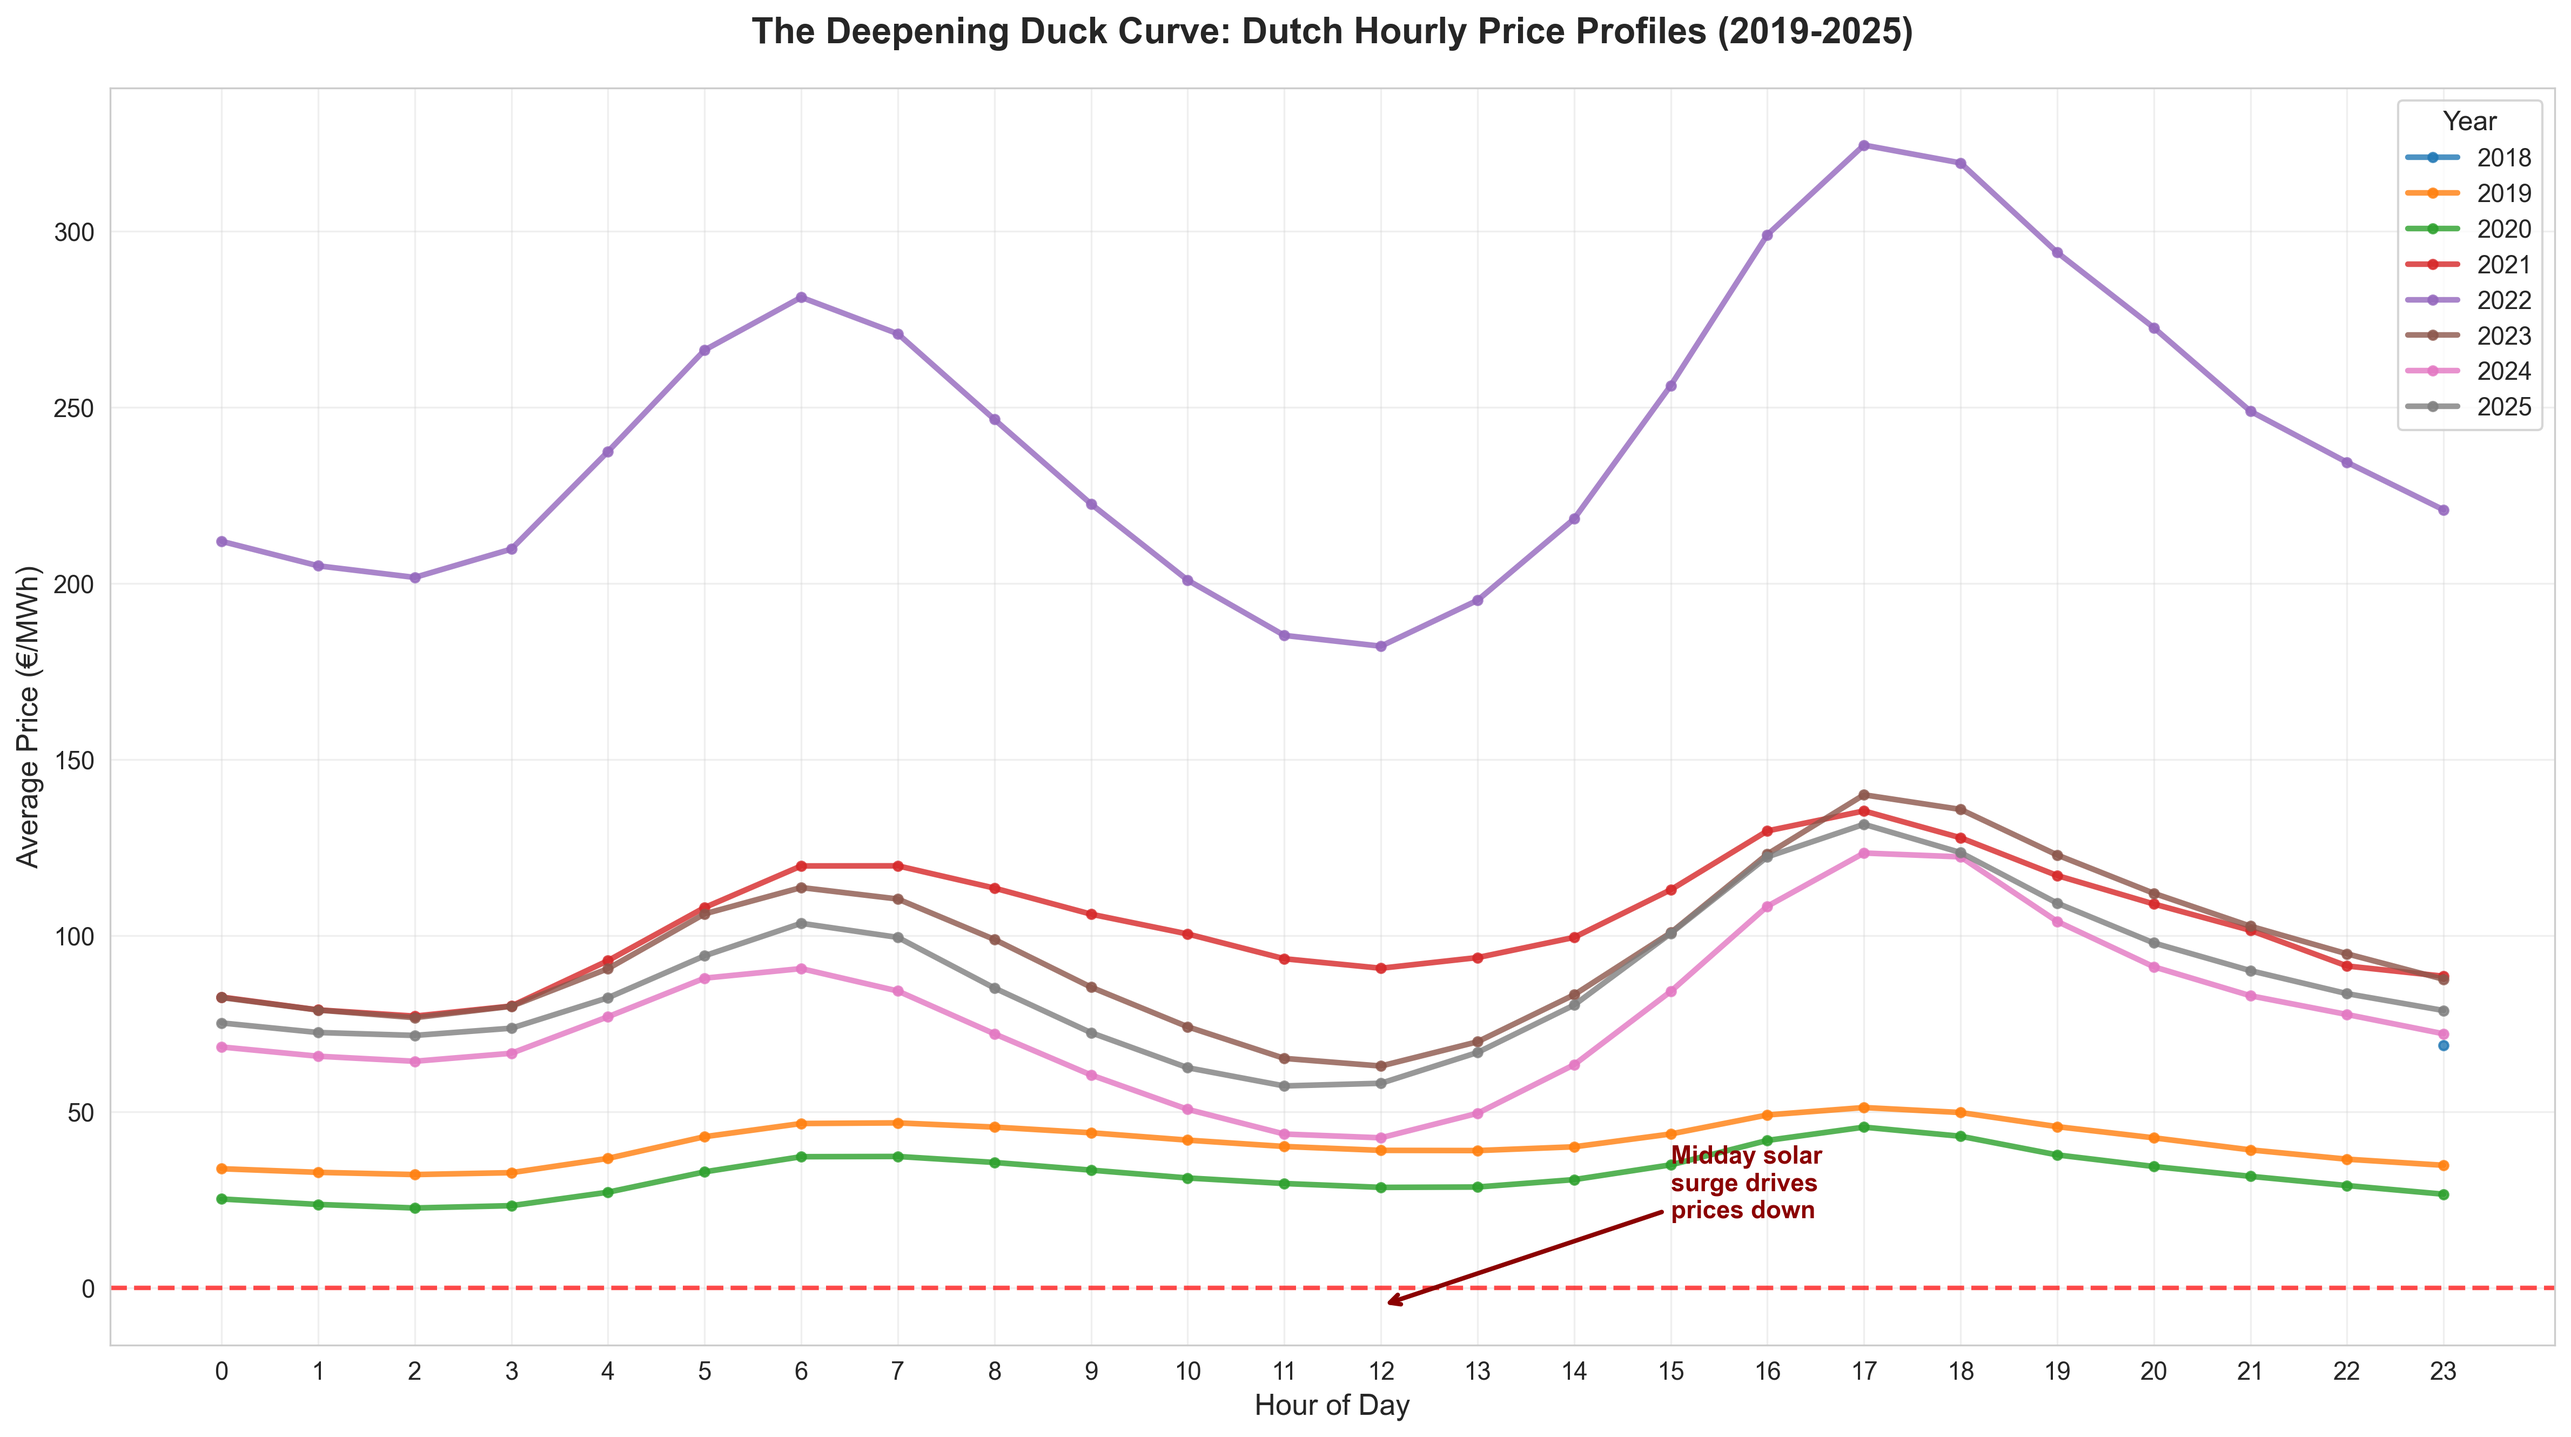
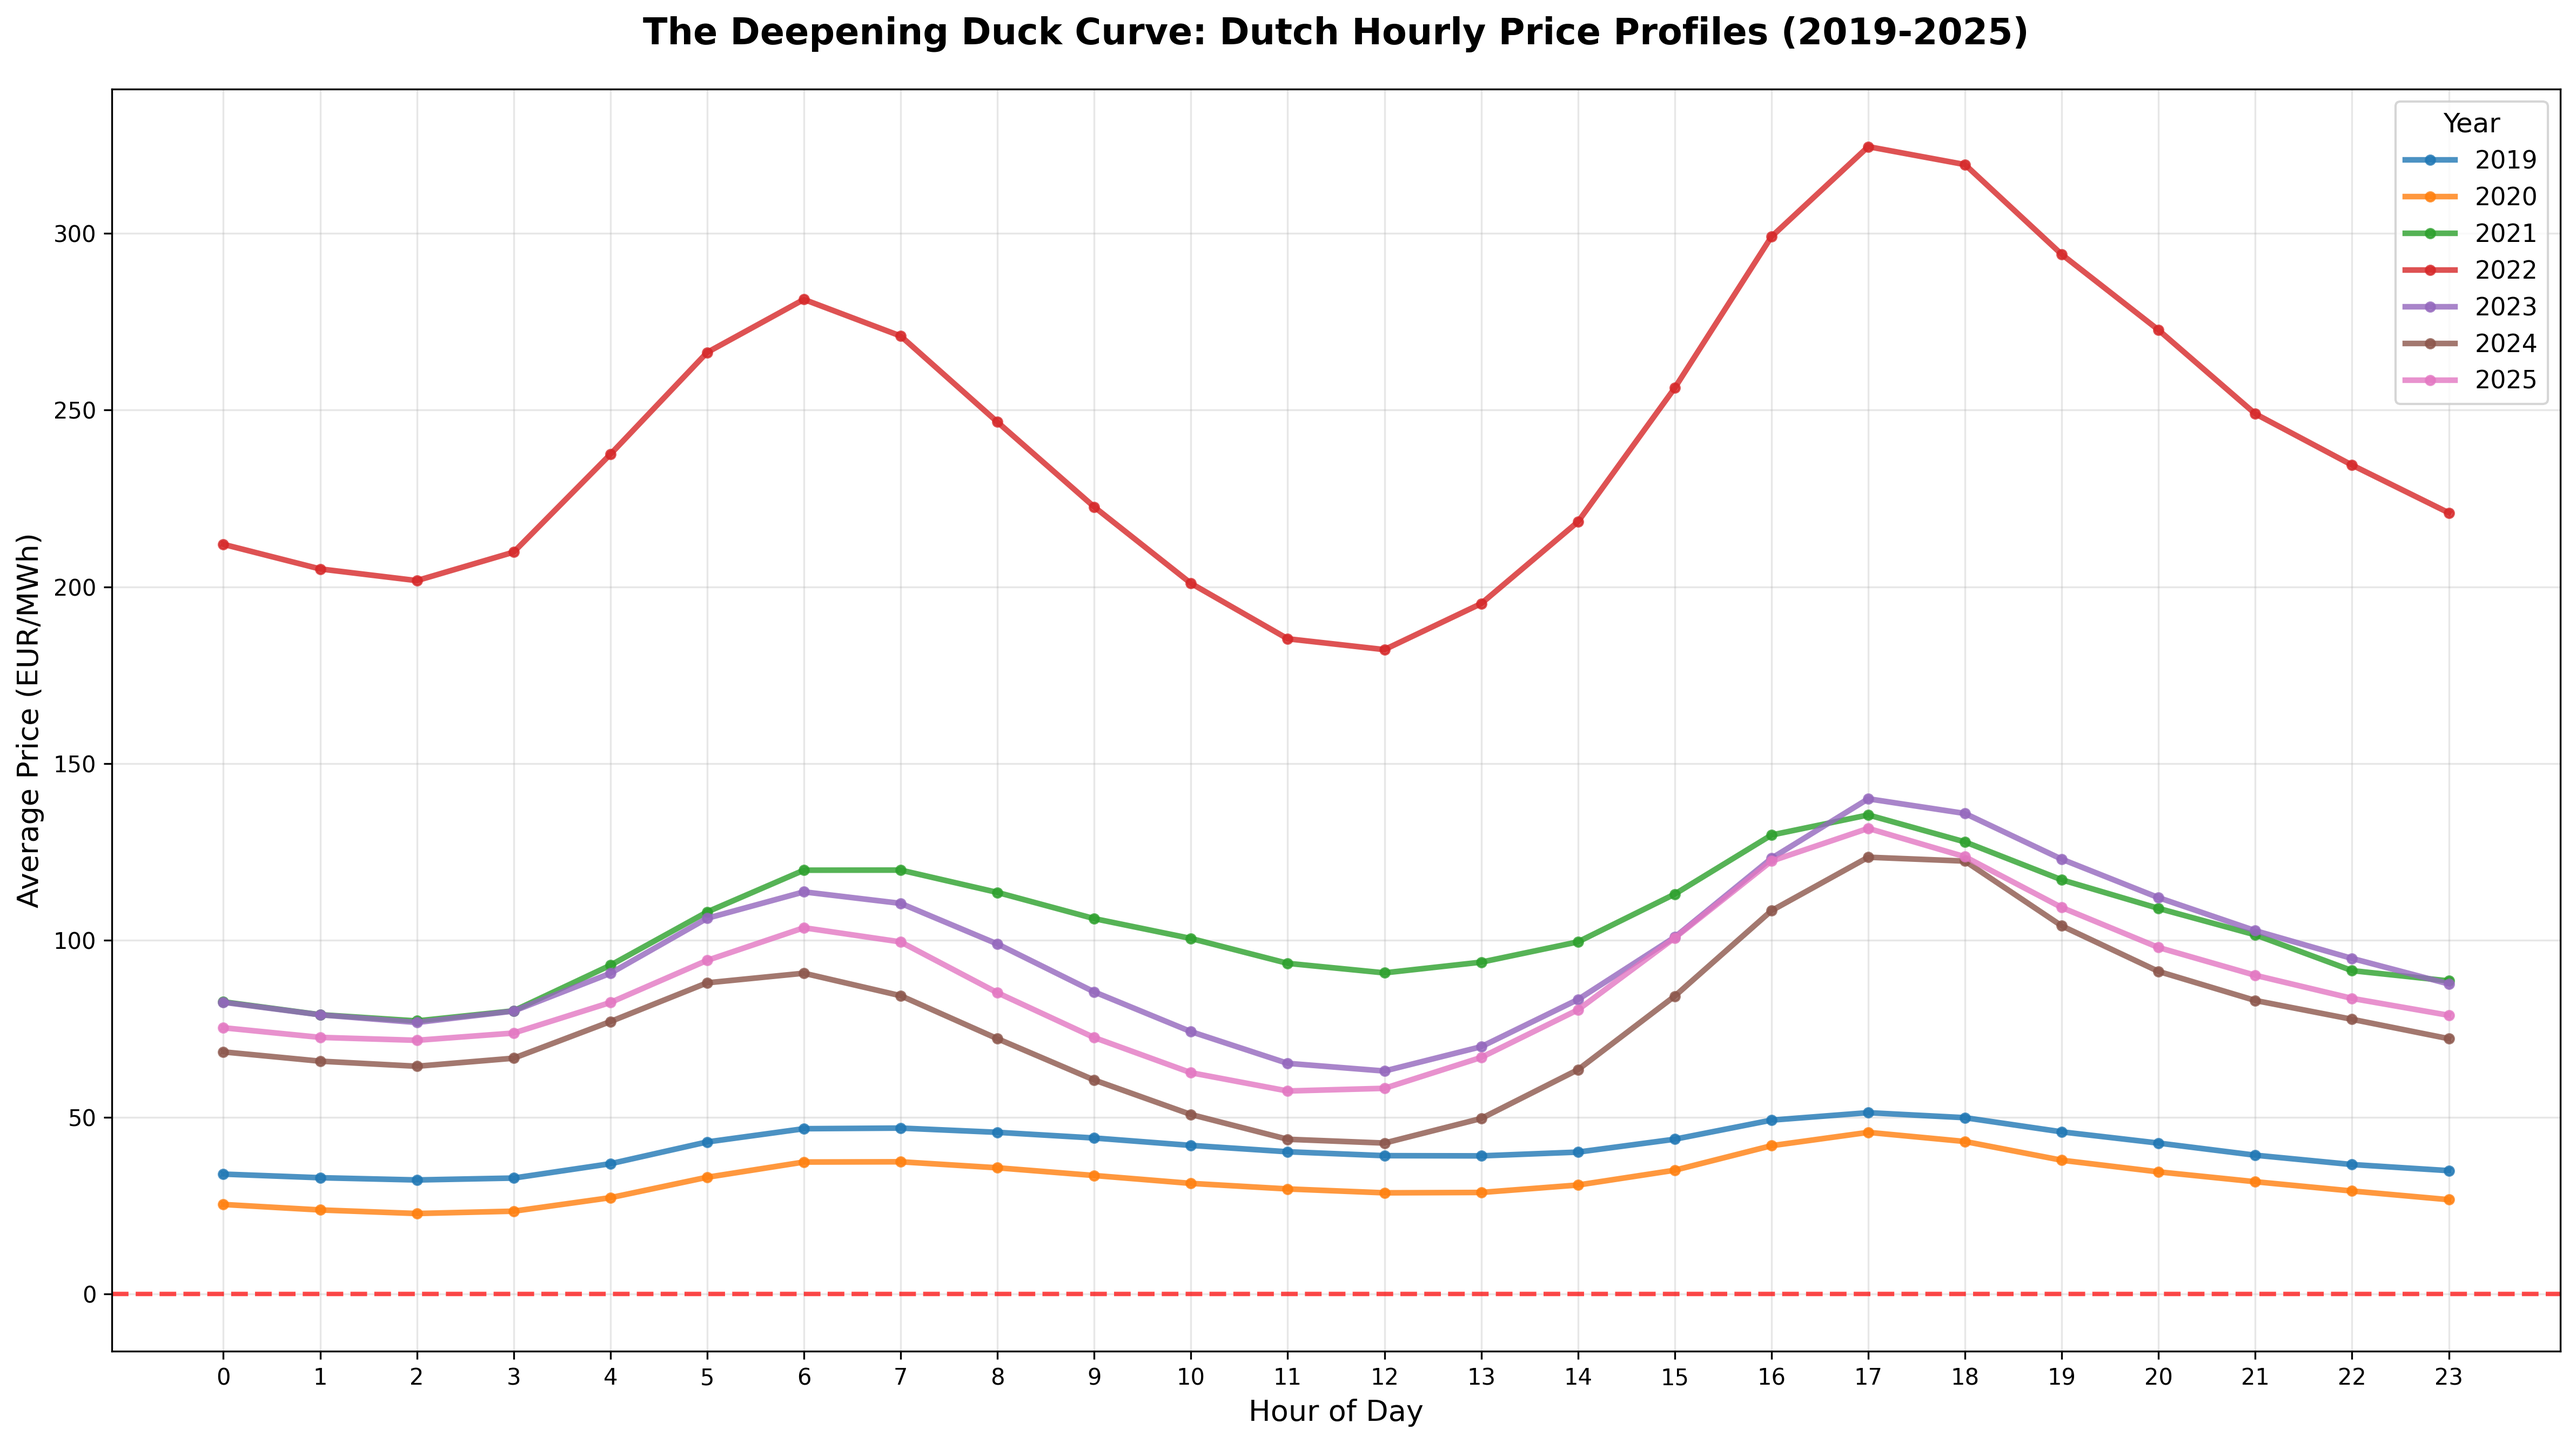
Changes to visualisations

diff --git a/scripts/create_3d_hist.py b/scripts/create_3d_hist.py
@@ -1,0 +1,136 @@
+"""
+3D Histogram: Negative Price Patterns by Month and Hour
+
+Creates a 3D bar chart showing the percentage of hours with negative
+electricity prices, broken down by month (y-axis) and hour of day (x-axis).
+Same data as Visualization 2 in exploratory_analysis.py, rendered in 3D.
+
+Output: outputs/figures/3d_negative_price_histogram.png
+
+Usage:
+    py scripts/create_3d_hist.py
+"""
+
+import sys
+from pathlib import Path
+import warnings
+
+import pandas as pd
+import numpy as np
+import matplotlib.pyplot as plt
+import matplotlib.cm as cm
+import matplotlib.colors as mcolors
+from mpl_toolkits.mplot3d import Axes3D  # noqa: F401
+
+# Add project root to path
+PROJECT_ROOT = Path(__file__).parent.parent
+sys.path.insert(0, str(PROJECT_ROOT))
+
+from config.settings import ENTSOE_DATA_DIR, FIGURES_DIR
+
+warnings.filterwarnings('ignore')
+
+
+def main():
+    print("=" * 60)
+    print("3D Histogram: Negative Price Patterns (Month x Hour)")
+    print("=" * 60)
+
+    # --- Load data (same pattern as exploratory_analysis.py) ---
+    print("\n[*] Loading price data...")
+    nl_prices = pd.read_csv(
+        ENTSOE_DATA_DIR / "nl_day_ahead_prices_2019_2025.csv",
+        index_col=0, parse_dates=True,
+    )
+    nl_prices.index = pd.to_datetime(nl_prices.index, utc=True)
+    nl_prices['is_negative'] = (nl_prices['price'] < 0).astype(int)
+    nl_prices['month'] = nl_prices.index.month
+    nl_prices['hour'] = nl_prices.index.hour
+    print(f"[+] Loaded {len(nl_prices):,} price records")
+
+    # --- Compute pivot table ---
+    negative_pct = nl_prices.pivot_table(
+        index='month', columns='hour',
+        values='is_negative', aggfunc='mean',
+    ) * 100
+
+    # --- Build 3D bar coordinates ---
+    hours = negative_pct.columns.values        # 0–23
+    months = negative_pct.index.values          # 1–12
+    xpos, ypos = np.meshgrid(hours, months)
+    xpos = xpos.flatten()
+    ypos = ypos.flatten()
+    zpos = np.zeros_like(xpos)
+    dz = negative_pct.values.flatten()
+
+    bar_width = 0.7
+    bar_depth = 0.7
+
+    # --- Color mapping (height → RdYlGn_r like the original heatmap) ---
+    cmap = cm.RdYlGn_r
+    norm = mcolors.Normalize(vmin=0, vmax=max(dz.max(), 1))
+    colors = cmap(norm(dz))
+
+    # --- Create figure ---
+    fig = plt.figure(figsize=(18, 10), facecolor='white')
+    ax = fig.add_subplot(111, projection='3d')
+
+    ax.bar3d(
+        xpos - bar_width / 2,
+        ypos - bar_depth / 2,
+        zpos,
+        bar_width, bar_depth, dz,
+        color=colors, edgecolor='#444444', linewidth=0.15,
+        alpha=0.92, zsort='average',
+    )
+
+    # --- Axes labels & ticks ---
+    ax.set_xlabel('Hour of Day', fontsize=12, labelpad=12)
+    ax.set_ylabel('Month', fontsize=12, labelpad=12)
+    ax.set_zlabel('% Negative Price Hours', fontsize=12, labelpad=10)
+
+    ax.set_xticks(range(0, 24, 2))
+    ax.set_xticklabels([f'{h}:00' for h in range(0, 24, 2)], fontsize=8)
+
+    month_labels = ['Jan', 'Feb', 'Mar', 'Apr', 'May', 'Jun',
+                    'Jul', 'Aug', 'Sep', 'Oct', 'Nov', 'Dec']
+    ax.set_yticks(range(1, 13))
+    ax.set_yticklabels(month_labels, fontsize=8)
+
+    ax.set_zlim(0, max(dz.max() * 1.05, 1))
+
+    # --- Viewing angle ---
+    ax.view_init(elev=25, azim=-50)
+
+    # --- Title ---
+    ax.set_title(
+        'Negative Price Patterns: % of Hours by Month and Hour of Day\n'
+        '(Netherlands Day-Ahead Prices, 2019–2025)',
+        fontsize=15, fontweight='bold', pad=20,
+    )
+
+    # --- Colorbar ---
+    mappable = cm.ScalarMappable(norm=norm, cmap=cmap)
+    mappable.set_array(dz)
+    cbar = fig.colorbar(mappable, ax=ax, shrink=0.55, pad=0.08, aspect=20)
+    cbar.set_label('% of Hours with Negative Prices', fontsize=10, labelpad=10)
+
+    # --- Reduce pane clutter ---
+    ax.xaxis.pane.fill = False
+    ax.yaxis.pane.fill = False
+    ax.zaxis.pane.fill = False
+    ax.xaxis.pane.set_edgecolor('#dddddd')
+    ax.yaxis.pane.set_edgecolor('#dddddd')
+    ax.zaxis.pane.set_edgecolor('#dddddd')
+    ax.grid(True, alpha=0.3)
+
+    # --- Save ---
+    output_path = FIGURES_DIR / '3d_negative_price_histogram.png'
+    fig.savefig(output_path, dpi=300, bbox_inches='tight', facecolor='white')
+    plt.close(fig)
+    print(f"\n[+] Saved: {output_path}")
+    print("[+] Done!")
+
+
+if __name__ == "__main__":
+    main()

diff --git a/scripts/exploratory_analysis.py b/scripts/exploratory_analysis.py
@@ -170,7 +170,7 @@ hourly_profiles = nl_prices.groupby(['year', 'hour'])['price'].mean().reset_inde
 fig, ax = plt.subplots(figsize=(16, 9))
 
 # Plot each year
-for year in sorted(hourly_profiles['year'].unique()):
+for year in sorted(y for y in hourly_profiles['year'].unique() if y >= 2019):
     year_data = hourly_profiles[hourly_profiles['year'] == year]
     ax.plot(year_data['hour'], year_data['price'],
             linewidth=2.5, marker='o', markersize=4, label=str(year), alpha=0.8)
@@ -183,12 +183,6 @@ ax.set_ylabel('Average Price (€/MWh)', fontsize=13)
 ax.set_xticks(range(0, 24))
 ax.legend(title='Year', fontsize=11, title_fontsize=12)
 ax.grid(True, alpha=0.3)
-
-# Add annotation
-ax.annotate('Midday solar\nsurge drives\nprices down',
-            xy=(12, -5), xytext=(15, 20),
-            arrowprops=dict(arrowstyle='->', color='darkred', lw=2),
-            fontsize=11, color='darkred', fontweight='bold')
 
 plt.tight_layout()
 plt.savefig(FIGURES_DIR / '03_duck_curve_evolution.png', dpi=300, bbox_inches='tight')
